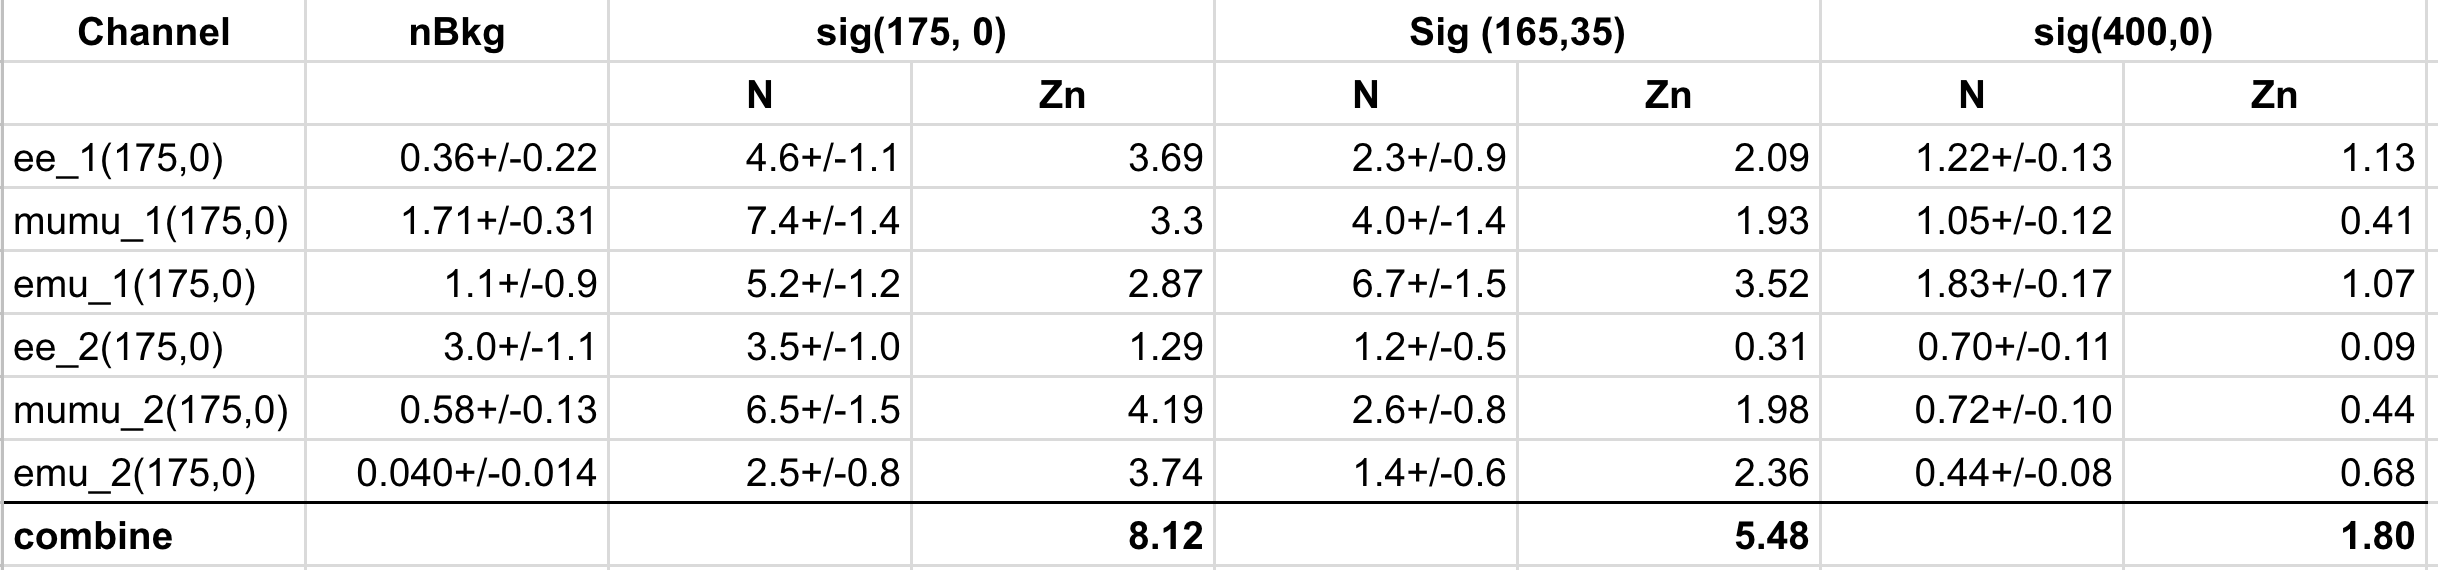
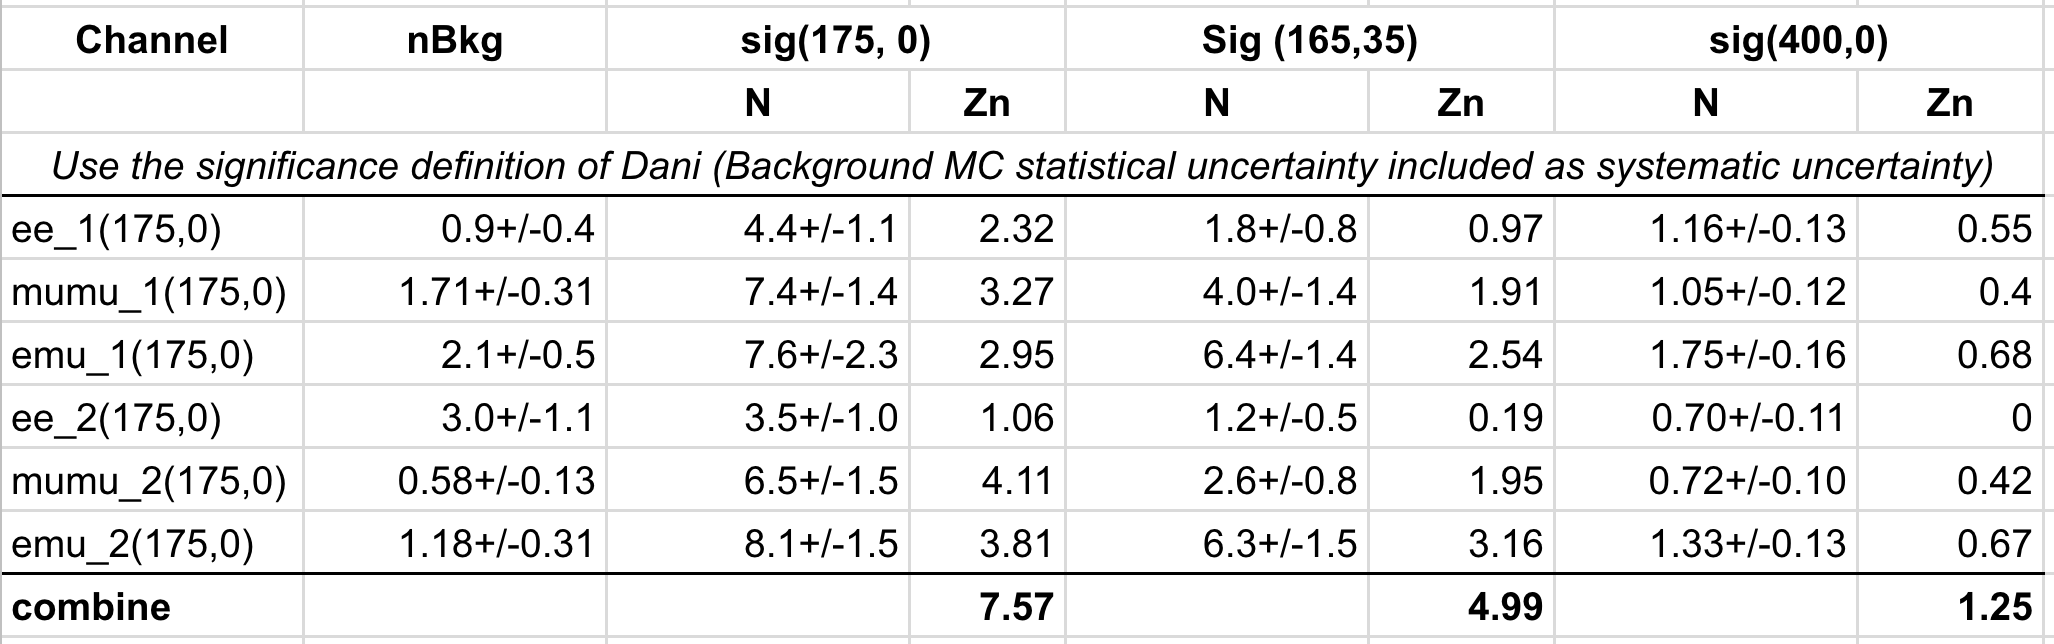
update jirassop.tex

Changed region(s): [[0.0, 0.1193, 1.0, 1.0], [0.0, 0.0, 1.0, 0.0895]]

diff --git a/code/plotScripts/dataMCcomparison/latex/jirassop.tex b/code/plotScripts/dataMCcomparison/latex/jirassop.tex
@@ -37,28 +37,46 @@ University of Michigan
 \frame{\titlepage}
 
 \begin{frame}{Introduction}
+\small
 The following constraints are applied to reduce the bias from low statistics:
 \begin{itemize}
+\small
 \item At least 10 unweighted events in VV and ttV background.
 \begin{itemize}
+\tiny
 \item New requirement suggested by Jeanette.
 \end{itemize}
-\item If the yield for one group of BG is negative, 0 yield is used.
+\item If the yield for one group of BG is negative, 0 yield is used. But the statistical error still keep unchanged to calculate the statistical error of total BG.
 \begin{itemize}
+\tiny
 \item Negative value means it is small.
 \end{itemize}
 \item nSig$>$1 and nSig/nSigError $>$ 2 for both (175,0) and (165,35).
 \begin{itemize}
+\tiny
 \item The optimization is still trying to find the largest significance for (175,0) point.
 \item New requirement for (165,35) point is added, so that the SR also works for this point.
 \end{itemize}
 \item For $\pt^{l1}$, $\pt^{l1}$, $\pt^{ll}$, $m_{T2}$, $E_{\text{T}}^{\text{miss,rel}}$, $m_{\text{eff}}$ and $m_{\text{T}}^{\text{max}}$, there is no upper cut.
 \begin{itemize}
+\tiny
 \item In the old result, both lower and upper cut are applied to $\pt^{ll}$,  $m_{T2}$, $m_{\text{eff}}$ and $m_{\text{T}}^{\text{max}}$.
 \end{itemize}
 \item For $|\Delta\eta_{ll}|$ and $m_{lj}$/$m_{ljj}$, there is no lower cut.
 \begin{itemize}
+\tiny
 \item In the old result, both lower and upper cut are applied to $|\Delta\eta_{ll}|$.
+\end{itemize}
+\end{itemize}
+\end{frame}
+
+\begin{frame}
+\frametitle{significance calculation}
+\begin{itemize}
+\item RooStats::NumberCountingUtils::BinomialExpZ(S,B,$\delta$B)
+\item $\delta$B = sqrt((0.25)\^{}2 + (nBGError/nBG)\^{}2)
+\begin{itemize}
+\item use the same definition from Dani.
 \end{itemize}
 \end{itemize}
 \end{frame}
@@ -168,19 +186,23 @@ Scale factor for reconstruction, isolation, ID and trigger is applied.
 \end{columns}
 \end{frame}
 
+\begin{frame}{Cuts in SR}
+\vspace{5mm}
+\tiny
+\begin{tabular}{|c|c|c|c|c|c|c|}
+\hline
+& SR$ee$-1 & SR$ee$-2 & SR$\mu\mu$-1 & SR$\mu\mu$-2 & SR$e\mu$-1 & SR$e\mu$-2 \\
+\hline
+Lepton flavours & $ee$ & $ee$ & $\mu\mu$ & $\mu\mu$ & $e\mu$ & $e\mu$ \\
+\hline
+$n_{cjets}$ & 1 & 2 or 3 & 1 & 2 or 3 & 1 & 2 or 3 \\
+\hline
+\input{data/optimization/cut_table_SR_SS_opt_0.tex}
+\end{tabular}
+\end{frame}
+
 \input{data/optimization/opt_SR_SS_opt_0.tex}
 \input{data/plot_SR_SS_opt_0.tex}
-
-\begin{frame}{negative VV BG}
-\begin{itemize}
-\item In SRee1, at least 10 VV raw events are require and we have 125 raw events.
-\item 112 raw events have positive weight, while 13 raw events have negative weight.
-\item Sum of positive weight is 1.37. Sum of negative weight is -1.78. Total yield is -0.41.
-\item The problem is due to the only one event after selection, which has negative weight in the sample
-Sherpa\_221\_NNPDF30NNLO\_WplvWmqq (This sample has a bug, will move to a bug fixed version)
-\includegraphics[width=0.5\textwidth]{data/optimization/negativeVV.png}
-\end{itemize}
-\end{frame}
 
 \begin{frame}{significance table}
 \includegraphics[width=\textwidth]{data/optimization/dongliang.png}
@@ -216,14 +238,6 @@ Backup
 
 \input{data/expN_SR_SS_pre.tex}
 \input{data/plot_SR_SS_pre.tex}
-
-\begin{frame}
-\frametitle{significance calculation}
-\begin{itemize}
-\item RooStats::NumberCountingUtils::BinomialExpZ(S,B,$\delta$B)
-\item $\delta$B = 0.3
-\end{itemize}
-\end{frame}
 
 \begin{frame}[fragile]
 \frametitle{Signal sample}

diff --git a/code/plotScripts/dataMCcomparison/latex/data/optimization/cut_table_SR_SS_opt_0.tex b/code/plotScripts/dataMCcomparison/latex/data/optimization/cut_table_SR_SS_opt_0.tex
@@ -1,0 +1,20 @@
+Leading lepton \pt [GeV]     & $\geq 40$ & $\geq 35$ & $\geq 30$ & $\geq 50$ & $\geq 45$ & $\geq 40$ \\
+\hline
+Sub-leading lepton \pt [GeV] & $\geq 25$ & $\geq 25$ & $\geq 25$ & $\geq 30$ & $\geq 25$ & $\geq 25$ \\
+\hline
+$|m_{ll}-m_Z|$ [GeV] & $>10$ & $>10$ & - & - & - & - \\
+\hline
+$|\Delta\eta_{ll}|$ & - & - & $<1.5$ & $<1.5$ & $<1.5$ & $<1.5$ \\
+\hline
+$E_{\text{T}}^{\text{miss,rel}}$ [GeV] & $\geq 60$ & $\geq 20$ & $\geq 5$ & - & $\geq 100$ & $\geq 15$ \\
+\hline
+$m_{\text{eff}}$ [GeV] & $\geq 200$ & $\geq 100$ & $\geq 200$ & $\geq 200$ & $\geq 200$ & $\geq 230$ \\
+\hline
+$m_{\text{T}}^{\text{max}}$ [GeV] & $\geq 115$ & $\geq 110$ & $\geq 100$ & $\geq 75$ & $\geq 70$ & $\geq 125$ \\
+\hline
+$m_{lj}$ or $m_{ljj}$ [GeV] & $<90$ & $<120$ & $<90$ & $<120$ & $<90$ & $<120$ \\
+\hline
+$\pt^{ll}$ [GeV] & $\geq 70$ & $\geq 40$ & $\geq 60$ & $\geq 60$ & $\geq 70$ & $\geq 30$ \\
+\hline
+$m_{T2}$ [GeV] & $\geq 75$ & $\geq 60$ & $\geq 75$ & $\geq 70$ & $\geq 70$ & $\geq 55$ \\
+\hline
